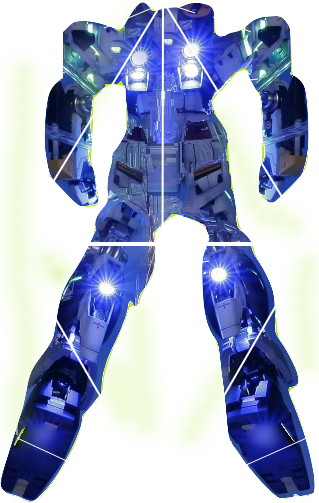
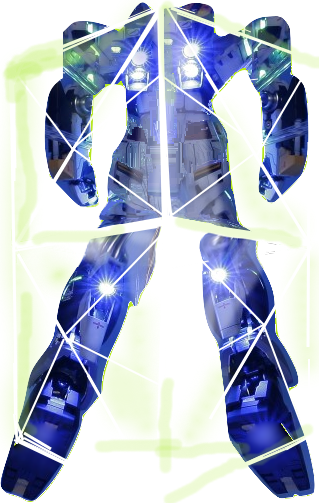
방어막

diff --git a/stage01.js b/stage01.js
@@ -614,7 +614,7 @@ var bonus_cnt = 1;
 
 
 //플레이어 무적시간
-var ini_ready_time = 140;
+var ini_ready_time = 160;
 var ready_time = ini_ready_time;
 
 /////////////////////////////////////////플레이어 레이져 초기 설정///////////////////////////////////////////
@@ -1819,7 +1819,7 @@ function sword_move(){
                     //lmovex = smovex - 45;
                     //lmovey = smovey - 80;
                     playerSword_Image=playerSword_StopImage;
-                    Context.drawImage(playerSword_Image  ,smovex - 45,--smovey - 20,s_width--*0.8,s_height--*0.6);   
+                    Context.drawImage(playerSword_Image  ,smovex - 36,--smovey - 24,s_width--*0.8,s_height--*0.6);   
                 }
 
                 
@@ -3671,7 +3671,7 @@ function game_background(){
 
     //게임 배경 (벽)그려주기   =? 원근 효과
     //=> 게임방향목표좌표(전체화면넓이/2 + cityEnd_x, 전체화면 Y 높이/4)에서부터 시작하여 각 모서리 양끝으로 선을그려준다.(원근표현)
-    Context3.globalAlpha = 0.2 * Math.floor(Math.random() * 4) + parseInt(playerY/1000);
+    Context3.globalAlpha = 0.3 * Math.floor(Math.random() * 4) + parseInt(playerY/1000);
     //console.log("playerY/100",playerY/100);
 
     if (enemy_boss_01_status == 1){
@@ -4013,7 +4013,7 @@ function game_background(){
 
             Context3.closePath();
             Context3.fillStyle="#40608E";
-            Context3.globalAlpha = 0.2;
+            Context3.globalAlpha = 0.5;
             Context3.fill();
         }else if (parseInt(gameTime/666) % 3 == 1){
             // cityImage = city02Image;
